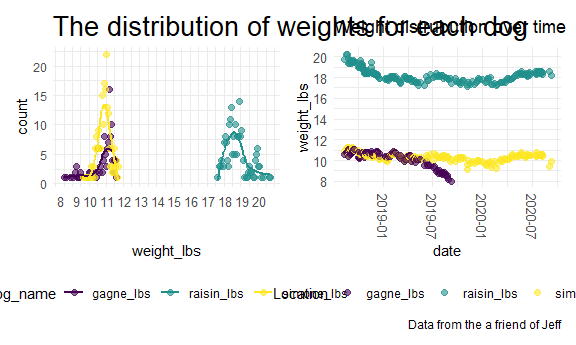
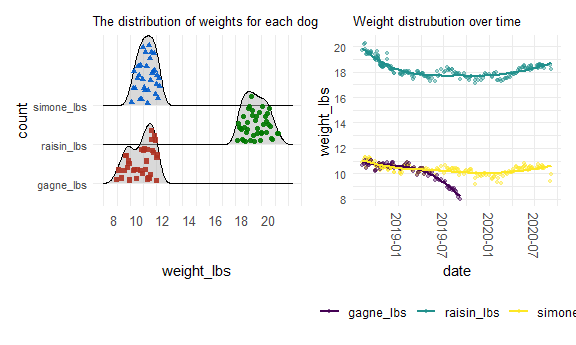
modification of graph

diff --git a/p8105_mtp_cz2634.md b/p8105_mtp_cz2634.md
@@ -3,17 +3,14 @@ p8105\_mtp\_cz2634
 Chenxin Zhang
 10/20/2020
 
-## Probalem 1
+## Problem 1 Tidy and clean data
 
 **Introduction and Goal of the Report**
 
 The raw data record the weights of three dogs named “Simon, Gagne, and
-Raisin” over 2 years with a standard object weighed on a dedicated
-scale. There are 206 rows and 6 columns. Observations are weight records
-of the three dogs through time. It also includes occasional notes mainly
-is time spent in a kennel.
-
-The goal of the report is to
+Raisin” over 2 years with a standard object weighed. There are 206 rows
+and 6 columns. The goal of the report is to analyze the weight
+distribution of the three dogs over time.
 
 **Import, tidy, and clean the data**
 
@@ -31,6 +28,10 @@ The goal of the report is to
     ##  9 2018-09-03 00:00:00       19.5       10.9      10.8    21.0
     ## 10 2018-09-04 00:00:00       19.6       11        10.9    21.0
     ## # ... with 192 more rows
+
+  - The data frame ‘weight\_df’ is more tidy and readable. It delete
+    rows where there is no record for weight of all three dogs, but keep
+    rows when at least one weight is recorded.
 
 **A dataframe that includes notes with date**
 
@@ -53,27 +54,30 @@ The goal of the report is to
     ## 14 2020  August     07    in Denver and PC aug 9-aug 31, no wts taken, Raisin w~
 
   - In this part, we produce a new data frame that include notes over
-    time. There are totall 14 notes which records mainly the place
-    changes where the dogs live. All three dogs had hair cut on
-    10/15/2018. Raisin and Simone had another hair cut on 5/23/2020,
-    while Gagne hadn’t because of the pass away.
+    time. There are totall 14 notes which records things happen to dog
+    like moving place, hair cut, death of Gagne. All three dogs had hair
+    cut on 10/15/2018. Raisin and Simone had another hair cut on
+    5/23/2020, while Gagne hadn’t because of the pass away.
 
-**export data frame**  
-\* In this part, we export the two data frame named ‘weight\_df’ and
-‘notes\_df’ as CSVs by function ‘write.csv’. Save the CSVs to the same
-directory as the raw data in working directory by giving the relative
-path.
+**export data frame**
 
-## Probalem 2
+``` r
+#export the two data frame named ‘weight_df’ and ‘notes_df’ as CSVs
+#Save the CSVs to the same directory as the raw data in working directory by giving the relative path.
+write.csv(weight_df, "./data/weight.csv")
+write.csv(notes_df, "./data/notes.csv")
+```
+
+## Problem 2 Summary of weight
 
 **Briefly describe the resulting tidy dataset containing weights**  
 \* The weights data recording the weights of the three dogs and a
 standard object has 202 rows and 7 columns. There are 202 unique dates
 are included in the dateset. By observation the raw data, there is a
-miss record value of weight for raisin. The weight of raisin on
+miss recorded value of weight for raisin. The weight of raisin on
 8/14/2019 is 7.9375 lbs while the records on near dates are all about
-17.93. To analyze the data accurately, the analysis below will drop the
-miss recorded value.
+17.93 lbs. To analyze the data accurately, the analysis below will drop
+the miss recorded value.
 
 **summary of the weight**
 
@@ -88,22 +92,26 @@ miss recorded value.
   - The data frame ‘dog\_df3’ shows a summary about the number of total
     observation, average weight and the standard deviation for each dog.
     There are observations for gagne, valid observations for raisin, and
-    obsevations for Simone. The mean weight of Raisin is 18.3, while it
+    observations for Simone. The mean weight of Raisin is 18.3, while it
     will be 18.2 if we do not drop the miss record value ‘7.9375’. The
     mean weights of Gagne and Simone are very close which are 10.3 and
-    10.4 respectively. Both weight values of Gagne and Raisin have a
-    standart deviation of 0.7, and the SD of weight value of Simone is
-    0.4. This data reflects weight values of Gagne and Raisin are more
-    spread from mean than that of Simone. Simone has a relatively stable
-    weight.
+    10.4 respectively. Both weight values of Gagne and Raisin have a SD
+    of 0.7, and the SD of weight value of Simone is 0.4, which reflects
+    weight values of Gagne and Raisin are more spread from mean than
+    that of Simone. Simone has a relatively stable weight than the
+    other.
 
-## Probalem 3 Visualization
+## Problem 3 Visualization
 
 **two-panel plot**
 
 <img src="p8105_mtp_cz2634_files/figure-gfm/unnamed-chunk-6-1.png" width="90%" />
 
-The weight\_dis plot shows the distribution of weights of each dog.
-
-The weight\_time plot shows the distribition of weight of each dog over
-time.
+  - By visualizing, we can more clearly see the weight difference among
+    the three dogs, and the weight distribution over time. Raisin is
+    almost two times heavy than the other two dogs. The right pannel
+    shows when time close to the death of Gagne, he lost weight over
+    time from average 10 lbs to finally 8 lbs. Raisin and Simmon have
+    very similar weight gain or lose trend over the two years. When one
+    gain/lose weight, the other also gain/lose weight. Ao a summary, the
+    fluctuation of weight of Raisin and Simmon are smooth over time.
